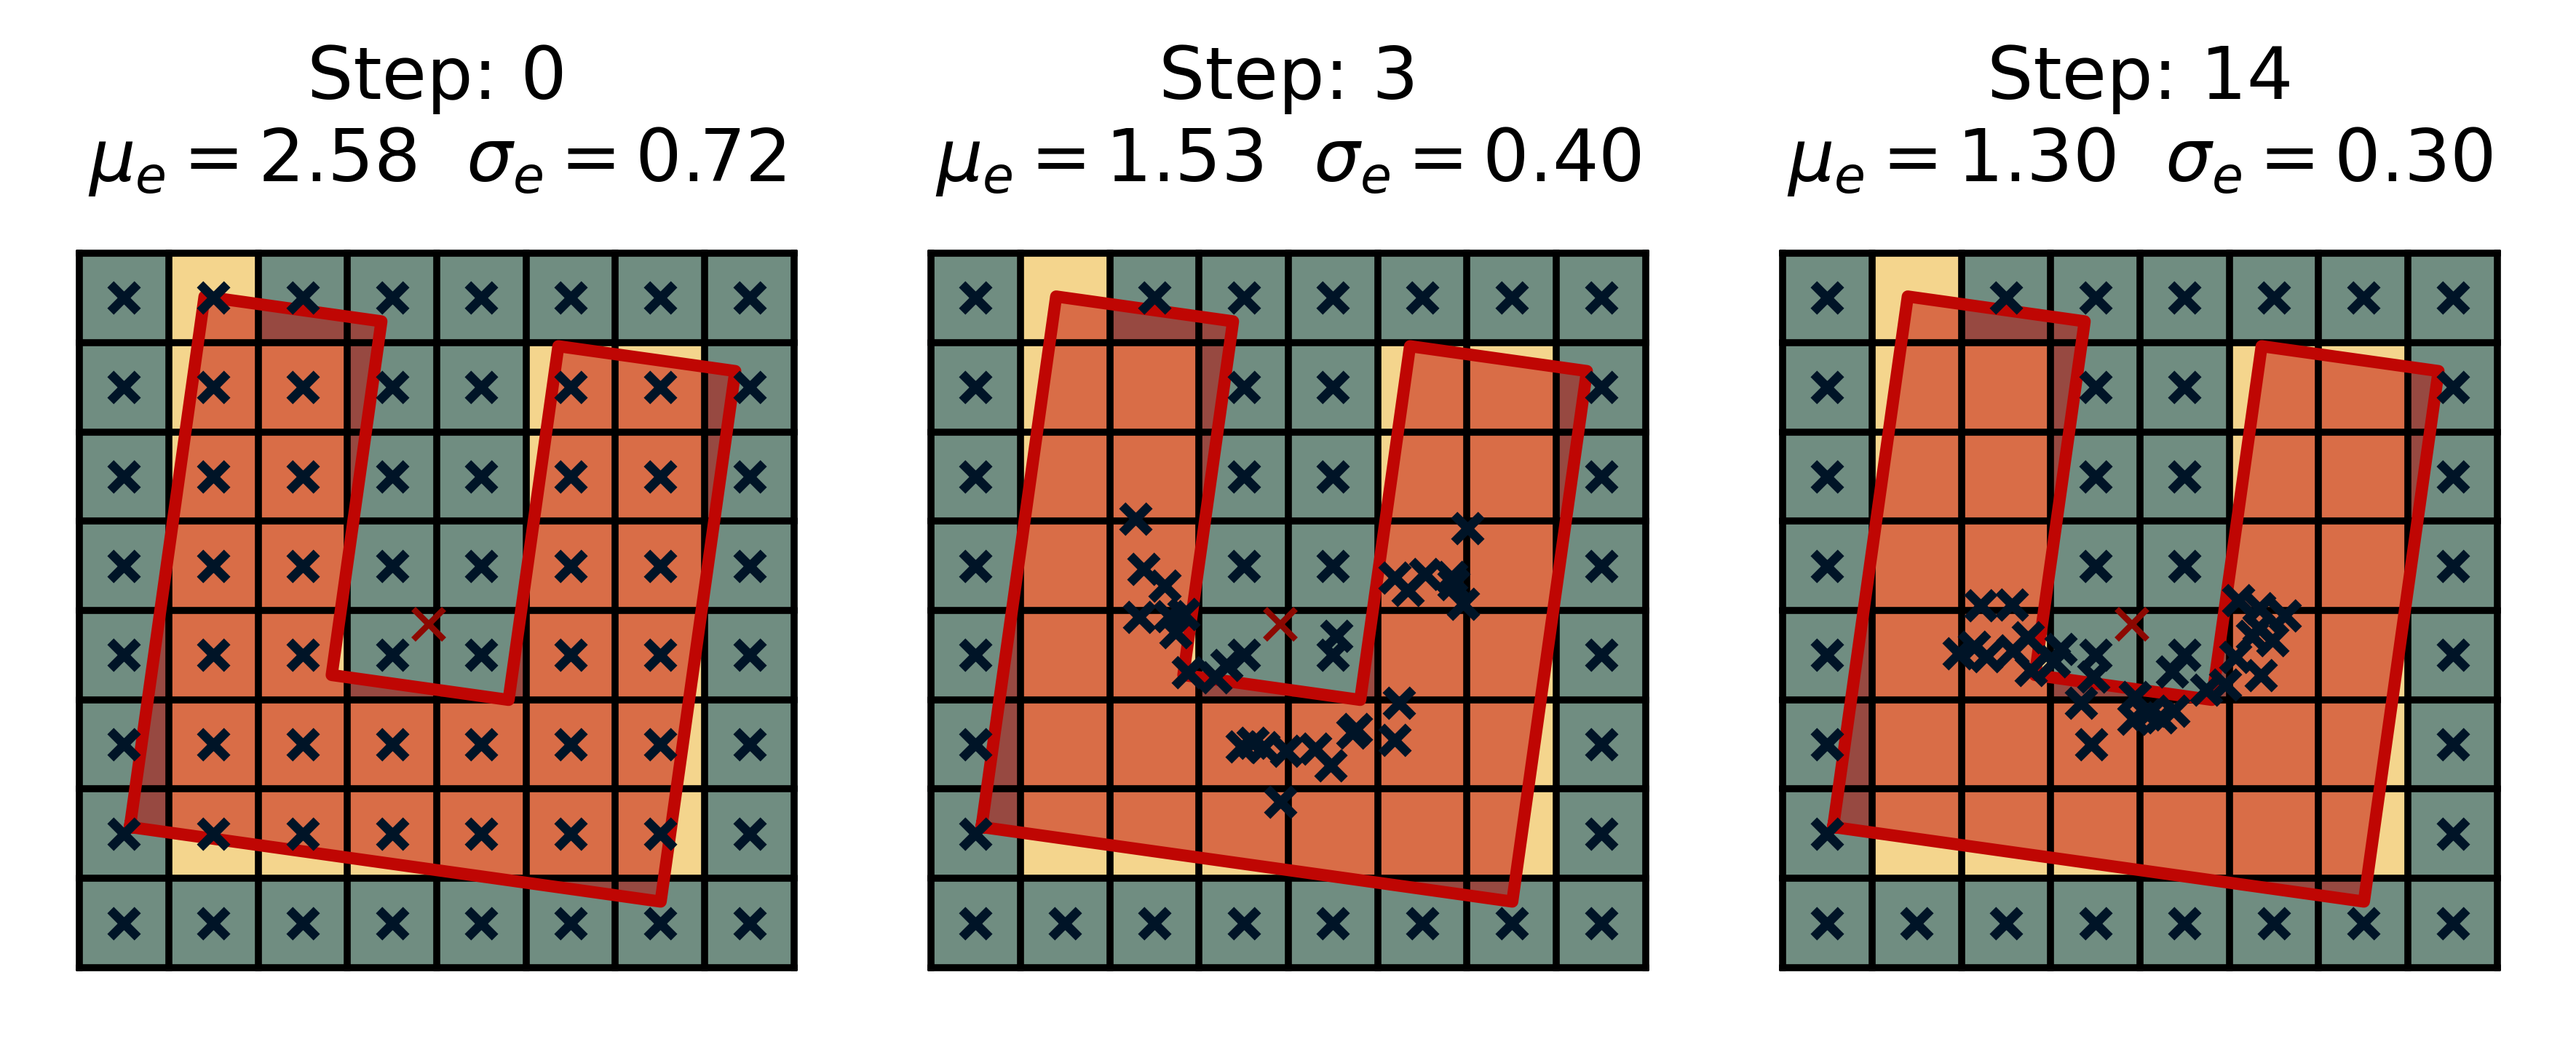
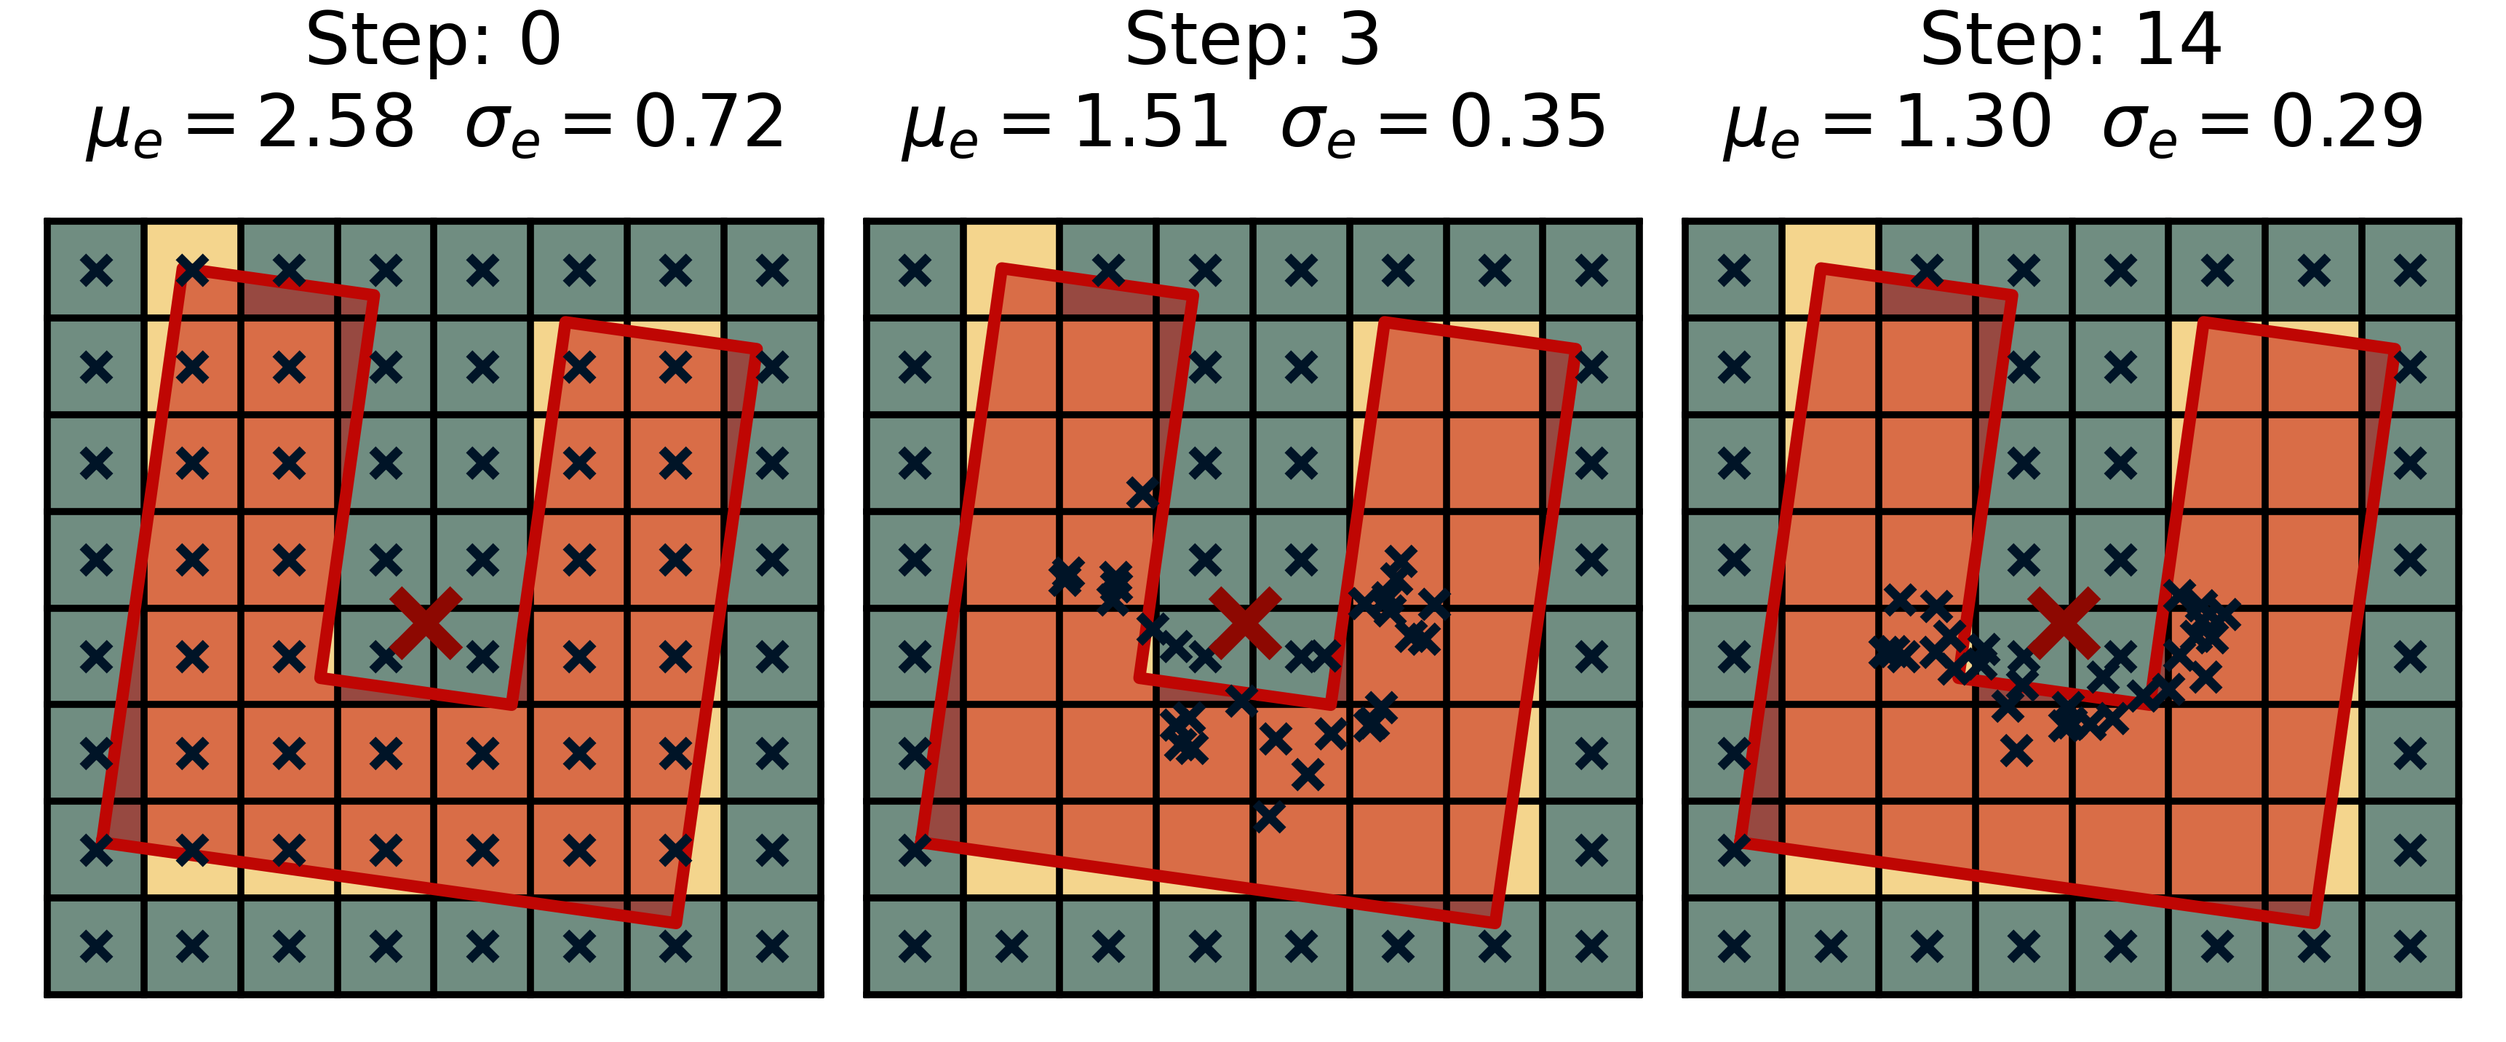
minor figures

diff --git a/Exp_Performance_Visuals_Convergence.py b/Exp_Performance_Visuals_Convergence.py
@@ -192,7 +192,7 @@ def _visualize_from_file(simulation_path: str, animation_path:str, state_structu
             tetro.center = [mass_centers[step][1], mass_centers[step][0]]
             x_values, y_values = zip(*tetro.vertices)
             ax[i].plot(x_values, y_values, color=style['tetro_color'], linewidth=style['tetro_line_width'], )
-            ax[i].plot(tetro.center[0], tetro.center[1], 'x', color=style['tetro_center_color'],linewidth=5, markersize = 5,zorder = 10)
+            ax[i].plot(tetro.center[0], tetro.center[1], 'x', color=style['tetro_center_color'],markeredgewidth=3, markersize = 10,zorder = 10)
             ax[i].fill(x_values, y_values, color=style['tetro_color'], alpha = 0.5)
             
             #calculate error
@@ -208,14 +208,12 @@ def _visualize_from_file(simulation_path: str, animation_path:str, state_structu
             ax[i].set_title(f'Step: {step}\n$\mu_e={error:.2f}$  $\sigma_e={std:.2f}$')
             ax[i].set_aspect('equal', adjustable='box')
             plt.tight_layout()
+            plt.subplots_adjust(wspace=-0.35, hspace=-0.35)
             #plt.subplots_adjust(left=0, right=1, top=1, bottom=0)
 
     #add legend
-    
-    #plt.legend(loc='upper center', bbox_to_anchor=(-0.1, -0.1), fancybox=True, shadow=True, ncol=5)
-
     plt.tight_layout()
-    plt.savefig(animation_path, dpi=600, bbox_inches='tight')
+    plt.savefig(animation_path, dpi=600, bbox_inches='tight', pad_inches=0.02)
     #plt.show()
 
 
